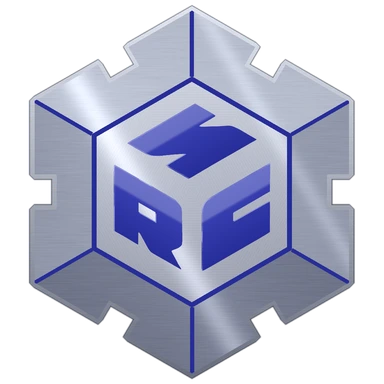
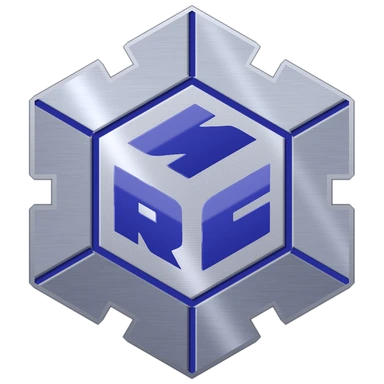
Roscaelifer medal: darker brushed silver, gloss, pressed #272D99 lines (placeholder until the official emblem)
Claude-Session: https://claude.ai/code/session_011E7ygcYxQYAdbkbtL5EJYd

Changed region(s): [[0.0938, 0.0312, 0.9062, 0.9688], [0.2812, 0.6562, 0.4375, 0.75]]

diff --git a/NOTICE.md b/NOTICE.md
@@ -8,7 +8,7 @@ ZZZ Team Builder is an unofficial, non-commercial fan project. It is not affilia
 
 ## Game data
 
-Agent, W-Engine, Drive Disc and Bangboo names, ranks, attributes, specialties, factions, stats, set bonuses, release versions, Additional Ability names and conditions, and kit links (Ether Veil and Aftershock) in `src/data/` are factual game information compiled from the community [Zenless Zone Zero Wiki](https://zenless-zone-zero.fandom.com/) on Fandom (October 2026), whose text is available under [CC BY-SA 4.0](https://creativecommons.org/licenses/by-sa/4.0/). Details of upcoming Agents (such as Phoenix's Additional Ability condition and recommended teams) come only from HoYoverse's official reveals and livestreams, apart from Phoenix's Core Passive, Mindscapes and build guidance, which are short rewordings of pre-release information marked "Subject to change" on the site; Severian's condition and the Roxy team are estimates from the 3.3 livestream gameplay and are marked as such on the site until his official reveal; his Drive Discs and build notes come from his official 3.3 in-game trial. Phoenix and her W-Engine Plume of Rebirth released in 3.3. Sunbringer (Eldreda, Lindverne and Dracaene Sunbringer, an S-rank Fire Armorer of Roscaelifer, listed for 3.4) comes only from HoYoverse's official drip marketing; her portraits (one per member) are cropped from that official art, the Roscaelifer "RSC" mark and her members' department logos (Administrative Affairs and Central Computing, the latter recoloured to the gold of the official reveal) are taken from HoYoverse's "Five Central Departments" posts, and the "From a mother to her children" verses on her exported cards are quoted from the same reveal, and her kit, build and Core Skill drops are left blank until they're revealed. Skill summaries in `src/data/skills/` (skills, Core Passive values by level, Additional Abilities, Mindscapes and Potential) are shortened rewordings of the same Wiki's skill text, with the game's numbers kept, and are shared under the same CC BY-SA 4.0 licence. Bangboo skill summaries (`src/data/bangbooSkills.js`) are shortened the same way. Level-up, skill and Core Skill material costs and where they drop (`src/data/materials.js`) come from the same Wiki. W-Engine, Bangboo EXP and Drive Disc levelling costs (`src/data/levelMats.js`) come from Icy Veins' Zenless Zone Zero leveling guide and W-Engine pages (October 2026). The order to level each Agent's skills (`src/data/skillPriority.js`) follows the upgrade order listed on ZZZ Build's Agent pages (zzz-build.com, October 2026). Only released content and officially announced Agents are included, with occasional clearly-marked test-server figures for upcoming content, ahead of their live release; undocumented leaks are never used. No game files are extracted, decompiled or redistributed.
+Agent, W-Engine, Drive Disc and Bangboo names, ranks, attributes, specialties, factions, stats, set bonuses, release versions, Additional Ability names and conditions, and kit links (Ether Veil and Aftershock) in `src/data/` are factual game information compiled from the community [Zenless Zone Zero Wiki](https://zenless-zone-zero.fandom.com/) on Fandom (October 2026), whose text is available under [CC BY-SA 4.0](https://creativecommons.org/licenses/by-sa/4.0/). Details of upcoming Agents (such as Phoenix's Additional Ability condition and recommended teams) come only from HoYoverse's official reveals and livestreams, apart from Phoenix's Core Passive, Mindscapes and build guidance, which are short rewordings of pre-release information marked "Subject to change" on the site; Severian's condition and the Roxy team are estimates from the 3.3 livestream gameplay and are marked as such on the site until his official reveal; his Drive Discs and build notes come from his official 3.3 in-game trial. Phoenix and her W-Engine Plume of Rebirth released in 3.3. Sunbringer (Eldreda, Lindverne and Dracaene Sunbringer, an S-rank Fire Armorer of Roscaelifer, listed for 3.4) comes only from HoYoverse's official drip marketing; her portraits (one per member) are cropped from that official art, a fan-made Roscaelifer medal (drawn for this site from the official "RSC" lettering, until a clear official emblem is shown) and her members' department logos (Administrative Affairs and Central Computing, the latter recoloured to the gold of the official reveal) are taken from HoYoverse's "Five Central Departments" posts, and the "From a mother to her children" verses on her exported cards are quoted from the same reveal, and her kit, build and Core Skill drops are left blank until they're revealed. Skill summaries in `src/data/skills/` (skills, Core Passive values by level, Additional Abilities, Mindscapes and Potential) are shortened rewordings of the same Wiki's skill text, with the game's numbers kept, and are shared under the same CC BY-SA 4.0 licence. Bangboo skill summaries (`src/data/bangbooSkills.js`) are shortened the same way. Level-up, skill and Core Skill material costs and where they drop (`src/data/materials.js`) come from the same Wiki. W-Engine, Bangboo EXP and Drive Disc levelling costs (`src/data/levelMats.js`) come from Icy Veins' Zenless Zone Zero leveling guide and W-Engine pages (October 2026). The order to level each Agent's skills (`src/data/skillPriority.js`) follows the upgrade order listed on ZZZ Build's Agent pages (zzz-build.com, October 2026). Only released content and officially announced Agents are included, with occasional clearly-marked test-server figures for upcoming content, ahead of their live release; undocumented leaks are never used. No game files are extracted, decompiled or redistributed.
 
 Recommended builds and best teams on the Agent pages (`src/data/builds.js`) are community picks compiled from [Icy Veins](https://www.icy-veins.com/zenless-zone-zero/)' Zenless Zone Zero build and team guides (October 2026): only the names of W-Engines, Drive Disc sets, stats and Agents are used, not their write-ups. They are recommendations, not official HoYoverse data, and change with new Agents and patches.
 
